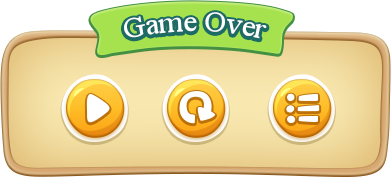
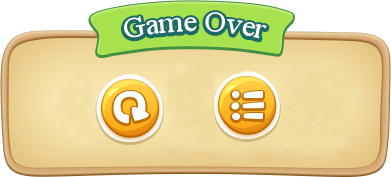
GameOver Screen finally implemented, alot of rework was done for this, Testing true bubble physics

Changed region(s): [[0.1535, 0.3955, 0.8593, 0.8192]]

diff --git a/game.js b/game.js
@@ -13,8 +13,8 @@ HitBox = function (game, frame, value) {
   //Bubble Container Sprite as child
   var bubble = game.add.sprite(0, 0, "bubble");
   bubble.anchor.setTo(0.5, 0.5);
-  bubble.tint = Math.random() * 0xffffff;
-  bubble.alpha = 0.5;
+//  bubble.tint = Math.random() * 0xffffff;
+  bubble.alpha = 0.6;
   bubble.scale.setTo(1.2,1.2);
   game.add.tween(bubble.scale).to({x:1.1, y: 1.1}, 400, Phaser.Easing.Linear.None, true, 0, 1000, true);
   this.addChild(bubble);
@@ -31,27 +31,27 @@ HitBox.prototype.setUp = function(frame, token_map, game) {
   this.checkWorldBounds = true;
   game.physics.enable(this, Phaser.Physics.ARCADE);
 
-  var side = Math.floor(Math.random()*3+1);
-  console.log(side);
-
-  if(side == 2) {
+//  var side = Math.floor(Math.random()*3+1);
+////  console.log(side);
+//
+//  if(side == 2) {
     this.reset(game.rnd.integerInRange(32,game.world.width-32), game.rnd.integerInRange(game.world.height + 32,game.world.height + 64));
-    this.body.velocity.x = game.rnd.integerInRange(-250, 250);
-  }
-  else if (side == 1) {
-    this.reset(-28, game.rnd.integerInRange(game.world.height - 64, game.world.height));
-    this.body.velocity.x = game.rnd.integerInRange(100, 250);
-  }
-  else {
-    this.reset(game.world.width + 28, game.rnd.integerInRange(game.world.height - 64, game.world.height));
-    this.body.velocity.x = game.rnd.integerInRange(-100, -250);
-  }
+    this.body.velocity.x = game.rnd.integerInRange(-50, 50);
+//  }
+//  else if (side == 1) {
+//    this.reset(-28, game.rnd.integerInRange(game.world.height - 64, game.world.height));
+//    this.body.velocity.x = game.rnd.integerInRange(100, 250);
+//  }
+//  else {
+//    this.reset(game.world.width + 28, game.rnd.integerInRange(game.world.height - 64, game.world.height));
+//    this.body.velocity.x = game.rnd.integerInRange(-100, -250);
+//  }
   this.body.angularVelocity = game.rnd.integerInRange(-100, 100);
 //  this.body.setSize(64, 64);
   this.body.velocity.y = game.rnd.integerInRange(-200, -100);
 //  this.scale.setTo(1,);
   this.anchor.setTo(0.5, 0.5);
-  this.body.bounce.set(1);
+  this.body.bounce.set(0.5);
   this.inputEnabled = true;
   this.events.onInputDown.add(game.hitBoxClicked, game);
 };
@@ -69,7 +69,8 @@ GameUI = function (game) {
 //  game.bar.y = game.world.height - game.bar.height;
   this.poppedChars = [];
   this.menu_sprites = [];
-  console.log("gameui called");
+  this.heart = [];
+//  console.log("gameui called");
 };
 
 GameUI.prototype.destroyChars = function(game) {
@@ -80,12 +81,22 @@ GameUI.prototype.destroyChars = function(game) {
 };
 
 GameUI.prototype.updateHeart = function(game) {
-  this.heart = [];
+  //Remove any Previous sprites
+  if(this.heart.length !== 0){
+    for(var i=0; i<this.heart.length; i++) {
+      this.heart[i].destroy();
+    }
+  }
+
   for(var i=0; i< game.health; i++) {
-    this.heart[i] = game.add.sprite(game.world.width - i*24 - 12, 12, 'heart');
-    this.heart[i].width = 24;
-    this.heart[i].height = 24;
+    this.heart[i] = game.add.sprite(game.world.width - i*32 - 16, 16, 'heart');
+//    this.heart[i].width = 24;
+//    this.heart[i].height = 24;
+    this.heart[i].scale.setTo(0.5, 0.5);
     this.heart[i].anchor.setTo(0.5, 0.5);
+    this.heart[i].angle = game.rnd.integerInRange(-10, 10);
+    var tween = game.add.tween(this.heart[i].scale).to({x: 0.4, y:0.4}, 100, Phaser.Easing.Elastic.InOut, true, 500 * i + 500).to({x: 0.5, y:0.5}, 50, Phaser.Easing.Elastic.InOut, true, 0).loop();
+//    tween.loop();
   }
 };
 
@@ -126,7 +137,7 @@ Level Manager
 BasicGame.LevelManager = function(game) {
   this.currentStage = "stage1";
   this.subStage = 0;
-
+  console.log("Level Manager");
   this.sprite_map = {
       "a": [0],
       "b": [1],
@@ -181,7 +192,7 @@ BasicGame.LevelManager = function(game) {
       },
       "stage2": {
         "start_text": "something something",
-        "tokens": ["alphabets"],
+        "tokens": ["alphabets", "alphabets", "alphabets", "alphabets"],
         "win_text": "Your getting smarter padwan",
         "lose_text": "Boo hoo",
         "image": "fish",
@@ -193,7 +204,7 @@ BasicGame.LevelManager = function(game) {
         "tokens": [["h", "a", "p", "p", "y"]],
       },
       "stage2": {
-        "tokens": [["f", "i", "s", "h"]],
+        "tokens": [["f", "i", "s", "h"], ["a", "r", "e"], ["c", "o", "l", "d"], ["b", "l", "o", "o", "d", "e", "d"]],
       },
     };
 };
@@ -230,8 +241,7 @@ BasicGame.LevelManager.prototype.changeLevel = function(game) {
     else {
       this.subStage++;
     }
-    game.i = 0;
-    game.updateStage();
+    game.start();
   }
 };
 
@@ -245,12 +255,6 @@ BasicGame.Game.prototype = {
   },
 
   create: function() {
-    this.start();
-  },
-
-  start: function () {
-    this.counter = 0;
-    this.setUpGame();
     this.backdrop = this.add.sprite(0, 0, "backdrop");
     this.backdrop.width = this.world.width;
     this.backdrop.height = this.world.height;
@@ -273,12 +277,8 @@ BasicGame.Game.prototype = {
     this.correctSound = this.add.audio('correct');
     this.music = this.add.audio('music');
     this.music.loop = true;
-    this.music.play();
 
     this.gameUI = new GameUI(this);
-    this.gameUI.updateHeart(this);
-
-    this.updateStage();
 
     // Show FPS
     this.game.time.advancedTiming = true;
@@ -286,15 +286,37 @@ BasicGame.Game.prototype = {
         10, 10, '', { fontSize: '20px', fill: '#ffffff' }
     );
 
-    this.i = 0;
-//    level.startLevel(this);
+    this.time.deltaCap = 0.02;
+
+    this.start();
   },
 
-  setUpGame: function () {
-    this.time.deltaCap = 0.02;
-//    this.currentStage = "stage1";
-//    this.subStage = 0;
+  reset: function() {
+//    this.hitBoxGroup.destroy(true);
+//    this.hitBoxGroup = this.add.group();
+    this.hitBoxGroup.forEachExists(function(item){item.kill();}, this)
+    this.gameover = false;
+    this.game.paused = false;
+    this.gameUI.destroyChars();
+    this.backdrop.tint = 0xffffff;
+    if(this.gameOverScreen)
+      this.gameOverScreen.destroy();
+  },
+
+  start: function () {
+
     this.health = 3;
+    this.counter = 0;
+    this.music.play();
+
+    this.answer = level.answer_map[level.currentStage]["tokens"][level.subStage].slice();
+
+    this.gameUI.updateHeart(this);
+    this.gameUI.updateUI(this);
+
+
+    this.i = 0;
+//    level.startLevel(this);
   },
 
   particleBurst: function(pointer, tint) {
@@ -309,14 +331,6 @@ BasicGame.Game.prototype = {
 
   },
 
-  updateStage: function () {
-
-    //Change Required Answer with the currentStage and subStage values
-    this.answer = level.answer_map[level.currentStage]["tokens"][level.subStage].slice();
-
-    this.gameUI.updateUI(this);
-
-  },
 
   createWall: function (x, y, side) {
     var wall = this.add.sprite(x, y);
@@ -351,6 +365,7 @@ BasicGame.Game.prototype = {
 
     if(!hit) {
       hit = new HitBox(this.game, frame, token_map);
+      console.log("NEW CREATED " + hit);
     }
 
     hit.setUp(frame, token_map, this);
@@ -361,16 +376,16 @@ BasicGame.Game.prototype = {
   },
 
   hitBoxClicked: function (item, pointer) {
+    this.hitBoxGroup.remove(item);
+    this.world.add(item);
     this.gameUI.poppedChars.push(item);
     this.text = item.value;
     var found = this.answer.indexOf(item.value);
-    item.children[0].destroy();
+    item.children[0].kill();
     this.popSound.play();
     this.particleBurst(item);
     item.alpha = 1;
     item.body.enablebody = false;
-    this.hitBoxGroup.remove(item);
-    this.world.add(item);
     if(item.value == this.answer[0]) {
       this.answer.splice(0, 1);
       var tween = this.add.tween(item).to(
@@ -401,20 +416,22 @@ BasicGame.Game.prototype = {
       }
     }
     else {
+      item.body.gravity.y = 1500;
+      item.body.velocity.x = Math.floor((Math.random()*2)-1)?-500:500;
+      item.body.velocity.y = -600;
+      item.outOfBoundsKill = true;
+      item.checkWorldBounds = true;
+//      this.time.events.add(Phaser.Timer.SECOND * 2,
+//                             function() {
+//                               item.kill();
+////                               console.log("item " + item);
+//                             },
+//                             this);
+      this.gameUI.destroyHeart();
       this.health--;
       if (this.health == 0) {
         this.gameOver();
       }
-      item.body.gravity.y = 1500;
-      item.body.velocity.x = Math.floor((Math.random()*2)-1)?-500:500;
-      item.body.velocity.y = -600;
-      this.time.events.add(Phaser.Timer.SECOND * 2,
-                             function() {
-                               item.destroy();
-                               console.log("item " + item);
-                             },
-                             this);
-      this.gameUI.destroyHeart();
     }
   },
 
@@ -441,16 +458,38 @@ BasicGame.Game.prototype = {
   },
 
   gameOver: function() {
+    this.gameover = true;
     this.gameOverScreen = this.add.sprite(10, this.world.height/2 - 100, "gameover");
     this.gameOverScreen.width = this.world.width - 20;
     this.gameOverScreen.height = this.gameOverScreen.width / 2.2;
+    this.backdrop.tint = 0x333333;
+    this.music.stop();
+    this.game.paused = true;
+    this.input.onDown.add(function(){
+      if(this.gameover == true) {
+        this.reset();
+        this.start();
+      }
+    }, this);
+
   },
 
   shutdown: function() {
-    if(this.music)
+//    if(this.music)
       this.music.destroy();
     if(this.gameOverScreen)
       this.gameOverScreen.destroy();
+//    if(this.wallgroup)
+      this.wallgroup.destroy(true, true);
+      this.answer = null;
+      this.backdrop.destroy();
+      this.correctSound.destroy();
+      this.emitter.destroy();
+      this.fpsText.destroy();
+      this.hitBoxGroup.destroy(true, true);
+      this.popSound.destroy();
+      this.gameUI.destroyChars();
+    console.log("destroyed");
   },
 
 };
